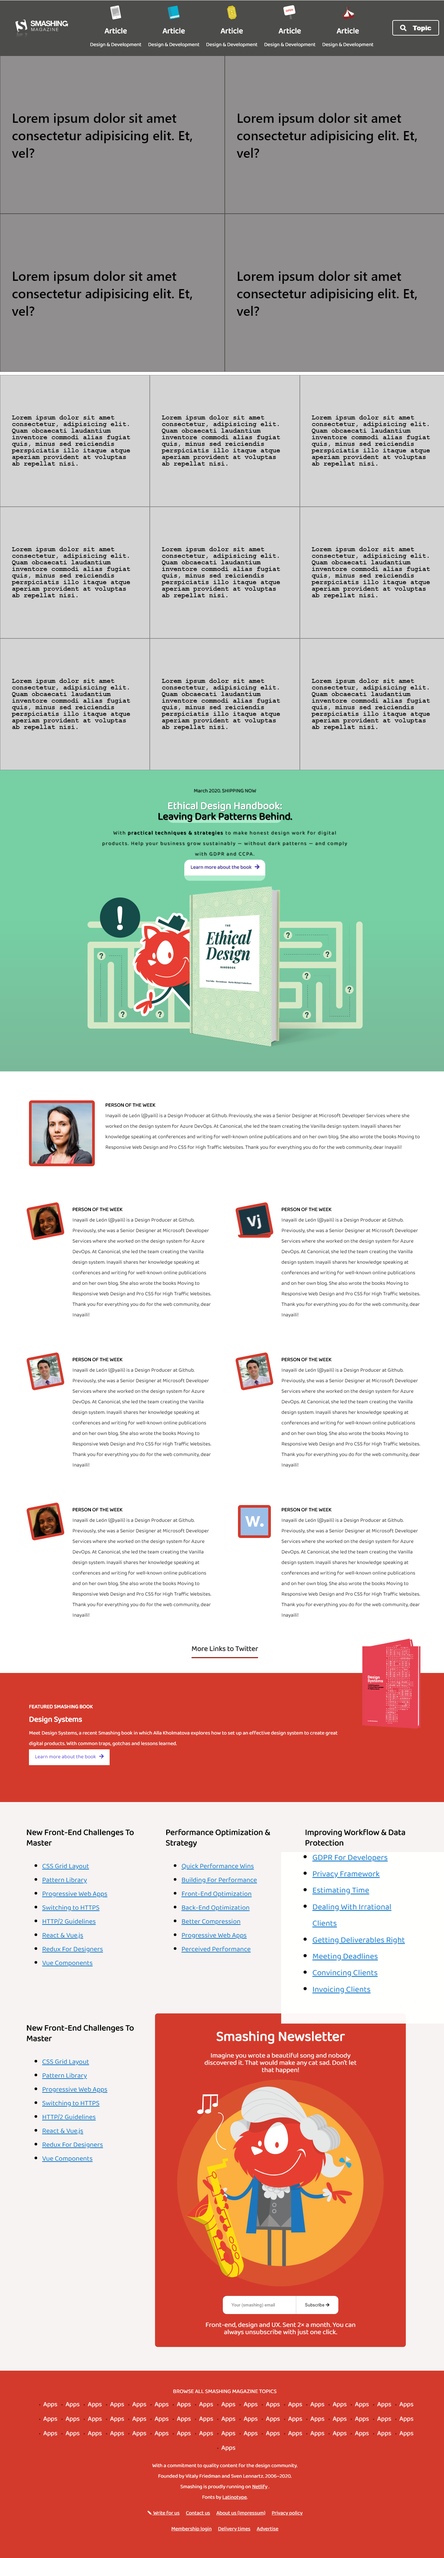
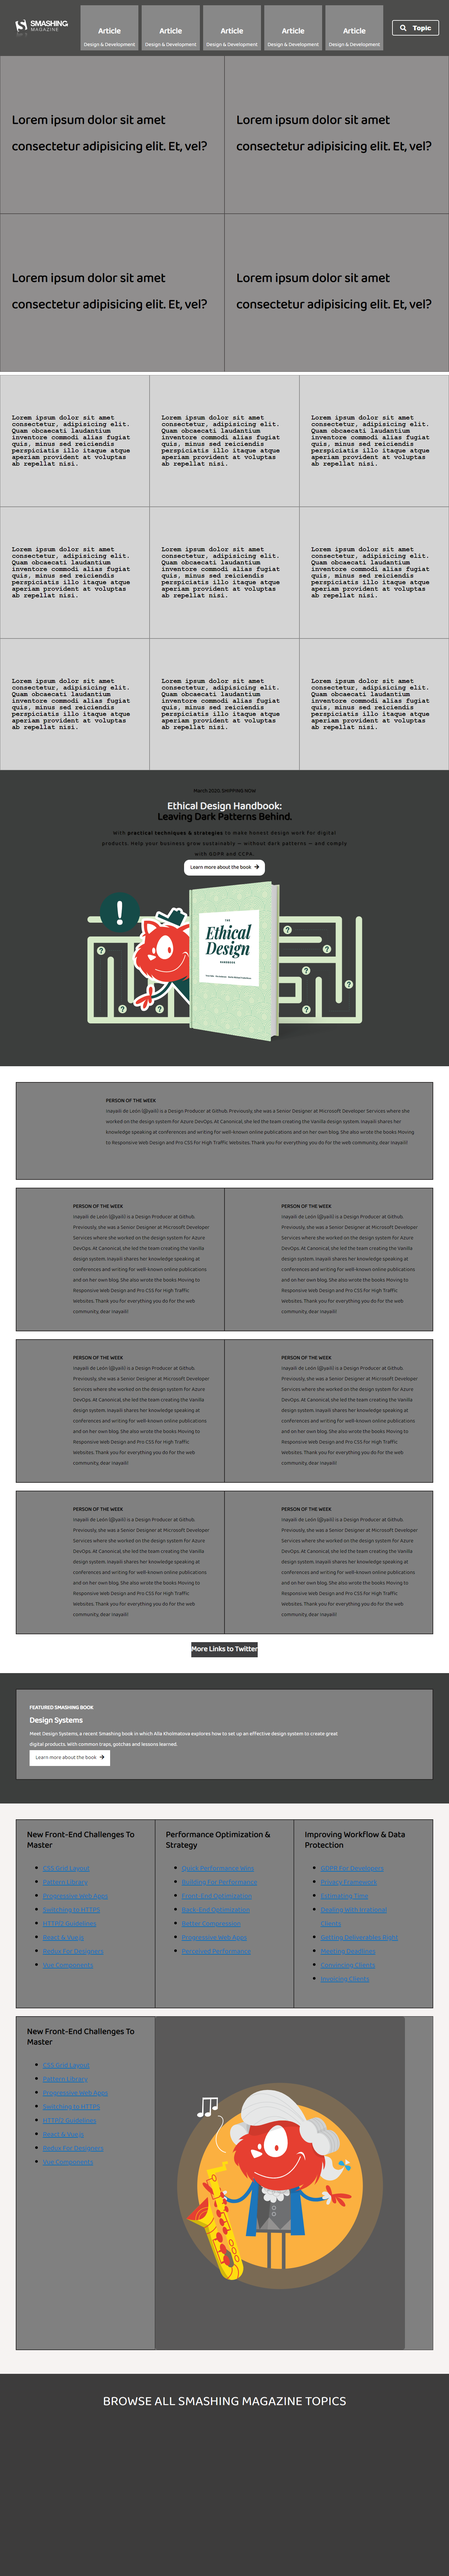
Made it more of a heatmap, edited the link to live demo

diff --git a/stylelint.config.js b/stylelint.config.js
@@ -1,15 +1,15 @@
-"use strict";
+"use strict"
 
 module.exports = {
-  extends: "stylelint-config-recommended",
-  rules: {
-    "at-rule-empty-line-before": [
-      "always",
-      {
-        except: ["blockless-after-same-name-blockless", "first-nested"],
-        ignore: ["after-comment"]
-      }
-    ],
+  "extends": "stylelint-config-recommended",
+  "rules": {
+    "at-rule-empty-line-before": [ "always", {
+      except: [
+        "blockless-after-same-name-blockless",
+        "first-nested",
+      ],
+      ignore: ["after-comment"],
+    } ],
     "at-rule-name-case": "lower",
     "at-rule-name-space-after": "always-single-line",
     "at-rule-semicolon-newline-after": "always",
@@ -22,21 +22,21 @@ module.exports = {
     "block-opening-brace-space-before": "always",
     "color-hex-case": "lower",
     "color-hex-length": "short",
-    "comment-empty-line-before": [
-      "always",
-      {
-        except: ["first-nested"],
-        ignore: ["stylelint-commands"]
-      }
-    ],
+    "comment-empty-line-before": [ "always", {
+      except: ["first-nested"],
+      ignore: ["stylelint-commands"],
+    } ],
     "comment-whitespace-inside": "always",
-    "custom-property-empty-line-before": [
-      "always",
-      {
-        except: ["after-custom-property", "first-nested"],
-        ignore: ["after-comment", "inside-single-line-block"]
-      }
-    ],
+    "custom-property-empty-line-before": [ "always", {
+      except: [
+        "after-custom-property",
+        "first-nested",
+      ],
+      ignore: [
+        "after-comment",
+        "inside-single-line-block",
+      ],
+    } ],
     "declaration-bang-space-after": "never",
     "declaration-bang-space-before": "always",
     "declaration-block-semicolon-newline-after": "always-multi-line",
@@ -47,13 +47,16 @@ module.exports = {
     "declaration-colon-newline-after": "always-multi-line",
     "declaration-colon-space-after": "always-single-line",
     "declaration-colon-space-before": "never",
-    "declaration-empty-line-before": [
-      "always",
-      {
-        except: ["after-declaration", "first-nested"],
-        ignore: ["after-comment", "inside-single-line-block"]
-      }
-    ],
+    "declaration-empty-line-before": [ "always", {
+      except: [
+        "after-declaration",
+        "first-nested",
+      ],
+      ignore: [
+        "after-comment",
+        "inside-single-line-block",
+      ],
+    } ],
     "function-comma-newline-after": "always-multi-line",
     "function-comma-space-after": "always-single-line",
     "function-comma-space-before": "never",
@@ -62,7 +65,7 @@ module.exports = {
     "function-parentheses-newline-inside": "always-multi-line",
     "function-parentheses-space-inside": "never-single-line",
     "function-whitespace-after": "always",
-    indentation: 2,
+    "indentation": 2,
     "length-zero-no-unit": true,
     "max-empty-lines": 1,
     "media-feature-colon-space-after": "always",
@@ -79,13 +82,10 @@ module.exports = {
     "number-leading-zero": "always",
     "number-no-trailing-zeros": true,
     "property-case": "lower",
-    "rule-empty-line-before": [
-      "always-multi-line",
-      {
-        except: ["first-nested"],
-        ignore: ["after-comment"]
-      }
-    ],
+    "rule-empty-line-before": [ "always-multi-line", {
+      except: ["first-nested"],
+      ignore: ["after-comment"],
+    } ],
     "selector-attribute-brackets-space-inside": "never",
     "selector-attribute-operator-space-after": "never",
     "selector-attribute-operator-space-before": "never",
@@ -104,6 +104,6 @@ module.exports = {
     "value-list-comma-newline-after": "always-multi-line",
     "value-list-comma-space-after": "always-single-line",
     "value-list-comma-space-before": "never",
-    "value-list-max-empty-lines": 0
-  }
-};
+    "value-list-max-empty-lines": 0,
+  },
+}

diff --git a/style.css b/style.css
@@ -45,6 +45,11 @@ img {
   padding: 0;
 }
 
+.nav ul li {
+  background: #888;
+  margin: 0 5px;
+}
+
 .img-holder img {
   border: 8px solid #d33a2c;
   border-radius: 8px;
@@ -59,6 +64,16 @@ img {
   transform: rotate(-11deg);
   transition: 0.5s;
   width: 39px;
+}
+
+.col-md-6 img,
+.col-md-12 img {
+  /* transform: rotate(0deg); */
+  visibility: hidden;
+}
+
+.nav ul li img {
+  visibility: hidden;
 }
 
 .navlink {
@@ -119,6 +134,7 @@ img {
   line-height: 1.4rem;
   margin: 0 auto;
   width: 70%;
+  visibility: hidden;
 }
 
 .section1 article {
@@ -130,7 +146,7 @@ img {
 
 .footer1 p {
   color: white;
-  font-size: 17px;
+  font-size: 40px;
 }
 
 .section1 article p {
@@ -166,8 +182,7 @@ img {
 }
 
 .section3 {
-  background-color: #76d0a4;
-  background-image: linear-gradient(#76d0a4 50%, #7ab99a 100%);
+  background-color: #3c3e3d;
   text-align: center;
   text-shadow: 1px 1px 1px rgba(0, 0, 0, 0.6);
 }
@@ -187,16 +202,16 @@ img {
 }
 
 .section3-content a {
-  border-bottom: 16px solid #adeccc;
   border-radius: 16px;
-  color: #fff;
   margin: 0;
+  color: #ebedef;
+  text-decoration: none;
 }
 
 .learn-more {
   background: #fff;
   border: none;
-  color: #452eca !important;
+  color: #101010 !important;
   display: inline-block;
   padding: 8px 18px;
 }
@@ -208,10 +223,12 @@ img {
 .row,
 .col-md-6,
 .col-md-12 {
+  background: gray;
   display: flex;
   flex: 0 1 auto;
   flex-wrap: wrap;
   padding: 1.5em;
+  border: 1px solid rgb(36, 34, 34);
 }
 
 .row {
@@ -240,18 +257,13 @@ img {
   max-width: 200px !important;
 }
 
-.col-md-6:hover img,
-.col-md-12:hover img {
-  transform: rotate(0deg);
-}
-
 .more-twitter {
-  border-bottom: 3px solid #9e1206;
-  color: #333;
+  color: whitesmoke;
   font-size: 1.4rem;
   font-weight: 700;
   margin: 0 auto;
   text-align: center;
+  background: #3e3e40;
 }
 
 .text-center {
@@ -259,7 +271,7 @@ img {
 }
 
 .section5 {
-  background: #d33a2c;
+  background: #3c3e3d;
 }
 
 .desgin-system {
@@ -285,9 +297,8 @@ img {
   transition: 0.5s;
 }
 
-.col-md-4:hover {
-  background: #fff;
-  transform: scale(1.2);
+.section6 .row .col-md-4 {
+  border: 1px solid rgb(43, 42, 42);
 }
 
 .col-md-4 h3 {
@@ -307,7 +318,7 @@ img {
 }
 
 .col-md-8 {
-  background: #d33a2c;
+  background: #5a5959;
   border-radius: 8px;
   color: #fff;
   flex: 60%;
@@ -319,6 +330,7 @@ img {
 .col-md-8 h2 {
   font-size: 43px;
   font-weight: 700;
+  visibility: hidden;
 }
 
 .subscribe-conatiner {
@@ -326,6 +338,7 @@ img {
   display: flex;
   justify-content: center;
   margin-bottom: 1.5rem;
+  visibility: hidden;
 }
 
 .subscribe-conatiner input {
@@ -334,6 +347,7 @@ img {
   border-right: 1px solid #ccc;
   border-top-left-radius: 12px;
   padding: 1.5em 2em;
+  visibility: hidden;
 }
 
 .btn button {
@@ -353,7 +367,7 @@ img {
 }
 
 .footer {
-  background: #d33a2c;
+  background: #1b1a1ad9;
   display: flex;
   flex-direction: column;
   margin: 0;
@@ -369,6 +383,7 @@ img {
 .footer1 ul {
   justify-content: space-between;
   list-style-type: disc;
+  visibility: hidden;
 }
 
 .footer1 ul li {
@@ -400,6 +415,7 @@ img {
   color: #fff;
   margin: 1rem auto;
   width: 100%;
+  visibility: hidden;
 }
 
 .footer2 ul {

diff --git a/README.md b/README.md
@@ -11,7 +11,7 @@
 
 ## Live Demo
 
-[Live Demo Link](https://0prodigy.github.io/smashing-magazine/.)
+[Live Demo Link](https://raw.githack.com/0prodigy/smashing-magazine/feature/index.html)
 
 ## Getting Started
 
